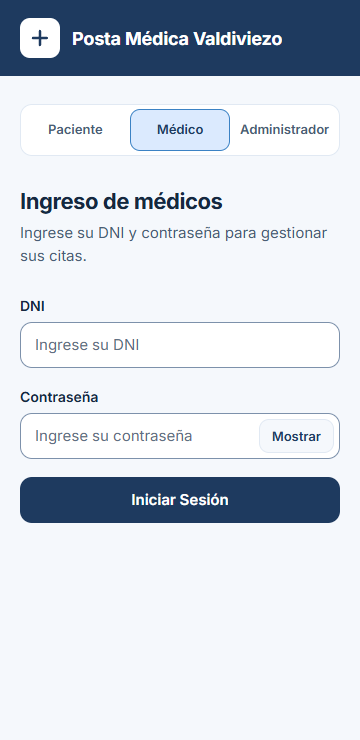
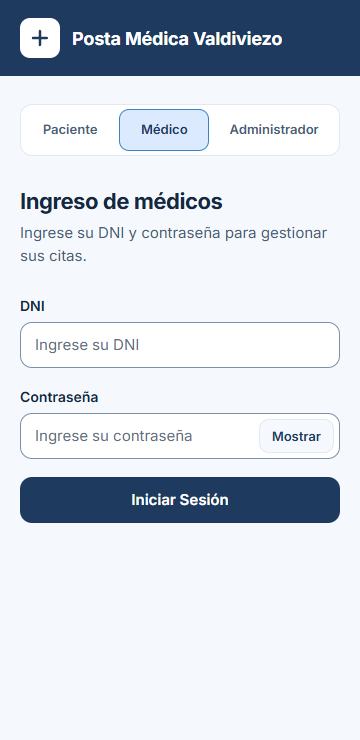
RFC-019: RFC actualizada con la revisión visual y capturas regeneradas

Changed region(s): [[0.3972, 0.1243, 0.9167, 0.2176], [0.1222, 0.1554, 0.275, 0.1865], [0.3056, 0.1243, 0.3667, 0.2176]]

diff --git a/docs/rfc/RFC-019.md b/docs/rfc/RFC-019.md
@@ -99,7 +99,7 @@ Referencia de estructura (no de colores): carpeta de guía de diseño PASO (logi
 - Partes siguientes: plantillas y CSS de paciente, médico y administrador.
 - Sin cambios en backend, servicios, guardas ni rutas.
 - Prueba nueva: `e2e/tests/rediseno-acceso.spec.ts` (criterios de aceptación de la Parte 1). Script de capturas: `docs/entrega/rediseno/capturas.cjs`.
-- Corrección visual de la Parte 1 (revisada por el usuario en el navegador): (1) el panel de marca agrupa logo, mensaje y tarjetas en un bloque desde arriba y su ancho es `clamp(380px, 40%, 640px)`, para que no ocupe media pantalla en monitores anchos; (2) el contenido de la derecha arranca desde arriba (no centrado en vertical) y el subtítulo reserva 2 líneas en celular, de modo que el selector, el primer campo y el botón quedan a la misma altura en los 3 logins (medido de 320 a 2600 px). Archivos: `auth-layout.component.css`, `styles.css`, `login-paciente.component.html` (texto del subtítulo) y los dos `.html` de médico con `aria-label="Cerrar"`.
+- Corrección visual de la Parte 1 (revisada por el usuario en el navegador): (1) el panel de marca agrupa logo, mensaje y tarjetas en un bloque desde arriba y su ancho es `clamp(380px, 40%, 640px)`, para que no ocupe media pantalla en monitores anchos; (2) la columna derecha se centra en vertical en pantalla ancha y el bloque de los 3 logins reserva una altura mínima de `min(580px, 100vh − 80px)` (la del login más alto con el aviso de error visible), de modo que el selector, el primer campo y el botón quedan a la misma altura en los 3 logins (medido de 320 a 2600 px); el subtítulo reserva 2 líneas en celular solo en los logins; en celular el contenido arranca justo bajo la franja de marca; (3) el registro se ancla arriba (no se centra) para que sus campos no se muevan al aparecer el aviso de error, y ese aviso va junto al botón "Registrar"; (4) el selector de rol usa columnas fijas `1fr 1fr 1.35fr` (más ancho para "Administrador"), peso 600 en todos y 13 px bajo 400 px; (5) títulos "Ingreso de pacientes / médicos / administradores" y aviso de sesión vencida después del subtítulo de la selección. Archivos: `auth-layout.component.{css,html}`, `styles.css`, `login-paciente.component.html`, `login-admin.component.html`, `login-selection.component.html`, `registro.component.html` y los dos `.html` de médico con `aria-label="Cerrar"`.
 - Decisión de diseño: por debajo de 900 px el panel azul se reduce a una franja con la marca; el mensaje y las dos tarjetas se ocultan para que el formulario quede a la vista en el celular.
 
 ### Impacto en las pruebas existentes
@@ -146,6 +146,8 @@ Volver a `develop` en el commit anterior a la rama (referencia: tag `LB-11` = v1
 | 2026-11-23 18:04 | Registrado | Se registró RFC-019 (tarea 31, partes 0 y 1). Aún no se evaluó ni se aprobó formalmente. |
 | 2026-11-23 18:40 | En implementación (Parte 1) | Estado registrado a esta hora, después de implementar la Parte 1 en `feature/rfc-019-rediseno-base` (el trabajo empezó a las 18:02; la hora de este renglón es la de su registro). Regresión sin diferencias contra LB-11 (`docs/evidencias/t31-rfc019-parte1.txt`). La aprobación formal del comité sigue pendiente; las partes siguientes no se han empezado. |
 | 2026-11-23 19:21 | En implementación (Parte 1, corrección visual) | Registro de la corrección visual pedida por el usuario tras verla en el navegador: panel izquierdo agrupado y de ancho acotado, formulario sin saltos entre roles, `aria-label="Cerrar"` en los "×", decisiones sobre AUD-DIS-12/09/05, `.impeccable/` en `.gitignore`. Detalle en `docs/BITACORA.md`. |
+| 2026-11-23 20:00 | En implementación (Parte 1, correcciones de la revisión visual, vuelta 1) | Commits `1432e07` y `483a28a`: columna derecha centrada con altura reservada, selector con columnas iguales, aviso del registro junto al botón, títulos y aviso de sesión. |
+| 2026-11-23 20:17 | En implementación (Parte 1, correcciones de la revisión visual, vuelta 2) | Registro anclado arriba (no salta con el error), selector `1fr 1fr 1.35fr`, altura reservada limitada a la pantalla. Detalle y medidas en `docs/BITACORA.md`. |
 
 ---
 
